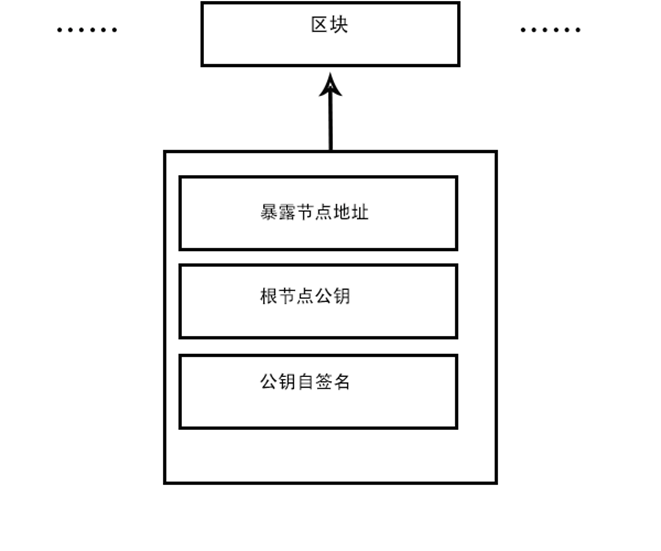
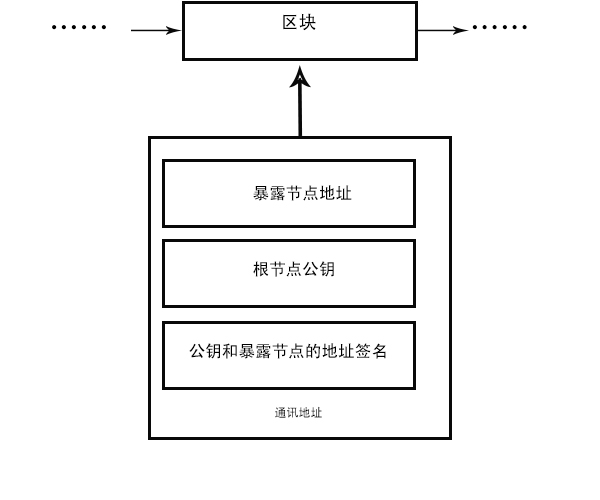
描述补充

diff --git a/AnoleNet/zh_cn/Anole - 一种点对点匿名通讯系统.md b/AnoleNet/zh_cn/Anole - 一种点对点匿名通讯系统.md
@@ -28,7 +28,7 @@ _author: btaskel bt_asker@hotmail.com_
 
 ![img.png](img.png)
 
-在常规通讯中，一个主机想要找到目的通讯-主机需要该目的主机的地址。在该网络中，根节点把自己的随机标识与实际地址转交给下级节点(N1-L1)，下级节点会保存该信息并使用根节点标识与节点地址，生成一个随机标识与根节点的地址形成映射关系，同时再将自身的地址与根节点形成的二级标识转交给下一个节点，由于在该示例中选定的深度为2，所以下级节点(N1-L2)是最终暴露外界的节点，在信息达到最终暴露节点后，该节点会向根节点通知暴露节点已经成功初始化，并由根节点赋予给暴露节点一个公钥作为加入该节点链的证据，对于其余节点根节点会使用现代公私钥交换技术进行隐瞒，这个证据会通过节点链到达暴露节点，暴露节点会将公钥、自身地址、公钥自签名广播出去，有新根节点想要建立主机连接该节点链，只需要根据对方的节点链发送的公钥哈希即可找到被连接方暴露节点所持有的某条节点链。
+在常规通讯中，一个主机想要找到目的通讯-主机需要该目的主机的地址。在该网络中，根节点(Node1)把自己的随机标识与实际地址转交给下级节点(N1-L1)，下级节点会保存该信息并使用根节点标识与节点地址，生成一个随机标识与根节点的地址形成映射关系，同时再将自身的地址与根节点形成的二级标识转交给下一个节点，由于在该示例中选定的深度为2，所以下级节点(N1-L2)是最终暴露外界的节点，在信息达到最终暴露节点后，该节点会向根节点通知暴露节点已经成功初始化，并由根节点赋予给暴露节点一个公钥作为加入该节点链的证据，对于其余节点根节点会使用现代公私钥交换技术进行隐瞒，这个证据会通过节点链到达暴露节点，暴露节点会将公钥、自身地址、公钥和暴露节点的地址签名广播出去，此时有新根节点想要建立主机连接该节点链，只需要根据对方的节点链发送的公钥哈希即可找到被连接方暴露节点所持有的某条节点链。
 
 每一个节点都可以建立多个节点链，这些主机链在其组成的节点中都有时间戳，时间戳代表着该链的生命周期。
 
@@ -44,9 +44,11 @@ _author: btaskel bt_asker@hotmail.com_
 
 ### 6.区块信息
 
-节点建立节点链后会把暴露节点的地址、公钥的签名、根节点公钥公布在区块中，当有另一个节点建立节点链链接时会使用目标根节点的公钥验证签名是否通过，并尝试连接暴露节点，如果成功则提供公钥哈希找到对应节点链。
+节点建立节点链后会把暴露节点的地址、公钥和暴露节点的地址签名、根节点公钥公布在区块中，当有另一个节点建立节点链链接时会使用目标根节点的公钥验证签名是否通过，并尝试连接暴露节点，如果成功则提供公钥哈希找到对应节点链。
 
 ![img_2.png](img_2.png)
+
+当有另一节点链持有某节点链根节点公钥尝试寻找时，它会首先根据自己最新的区块逐渐往下寻找，直到找到与之匹配的暴露节点信息即可。
 
 ### 7.回收资源
 
